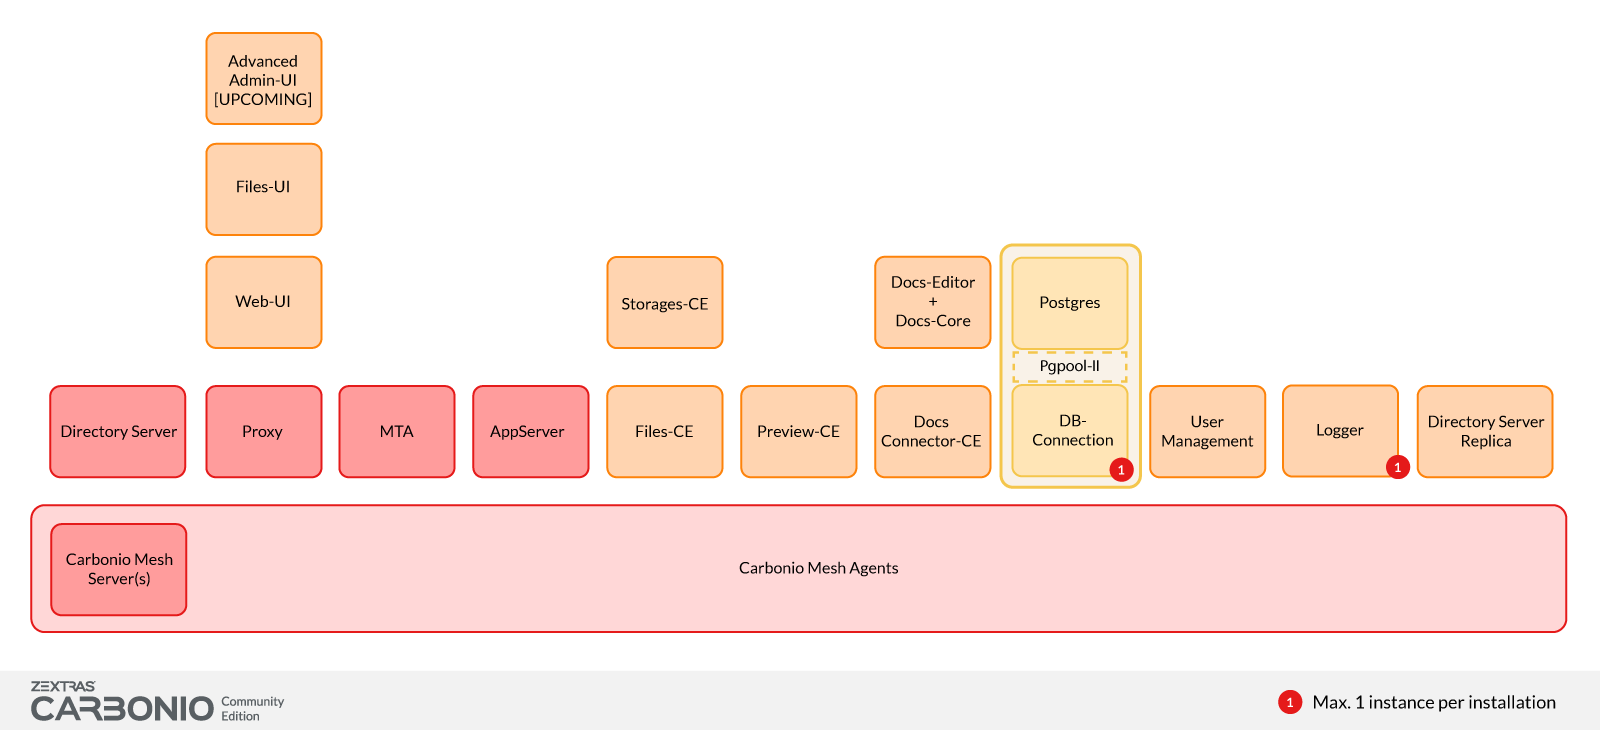
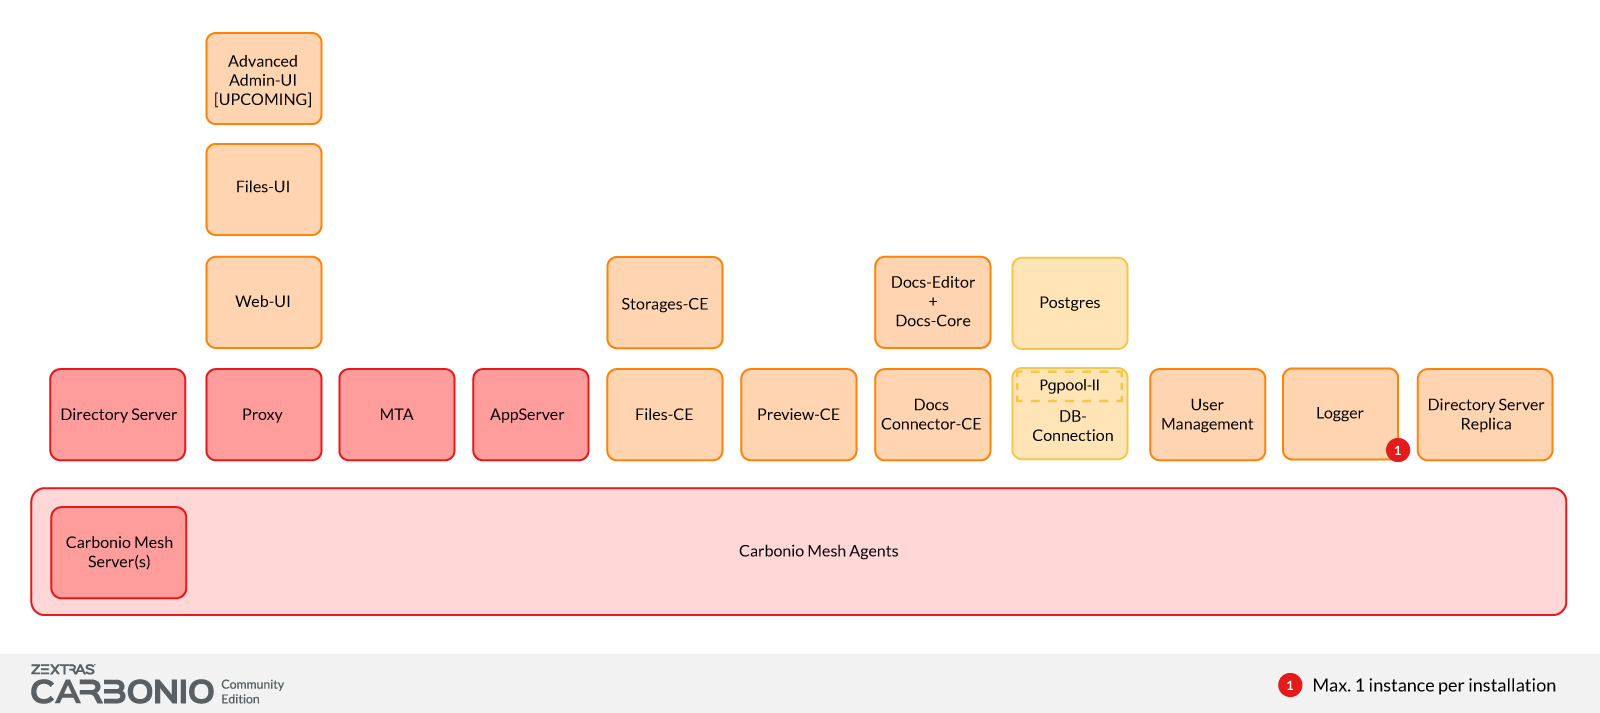
add updated diagrams and text

diff --git a/source/carbonio/architecture.rst b/source/carbonio/architecture.rst
@@ -9,7 +9,7 @@
 .. the intro and the architecture's legend must be fixed after we
    receive the final diagram!
 
-:numref:`fig-ce-arch` shows the internal architecture of |product|
+:numref:`fig-cb-arch` shows the internal architecture of |product|
 with all its components.
 
 .. card::
@@ -31,18 +31,11 @@ install it on a dedicated node, while **User Management** can be
 installed on the AppServer node instead of on a dedicated node.  In
 the :ref:`multiserver-installation` scenario we use as example, we
 show how to set up a cluster of *six* nodes and combine the various
-|product|'s roles.
+|product|'s roles.  A **Role** is a functionality that is considered
+atomic and can be added to the |product| by installing one or more
+software packages.
 
-Each of the boxes represents a **Role**, that is, a service that
-is considered atomic and can be added to the basic |product| by
-installing one or more software packages. 
-
-.. note:: In some cases, the Role requires that some packages be
-   installed on a different node: in these cases, the Role is split in
-   multiple sub-roles for clarity and to highlight package
-   dependencies.
-
-In :numref:`fig-ce-arch`, *dependencies* are denoted by the boxes piled
+In :numref:`fig-cb-arch`, *dependencies* are denoted by the boxes piled
 on top of the bottom one. In other words, all the ``*-UI`` packages,
 which contain the files necessary to show the Module to the users,
 **must be** installed on the Proxy Node.
@@ -90,7 +83,7 @@ receive e-mails and to manage their calendars and contacts. They are:
       :columns: 3
       :class-body: abyss
 
-	   The |mta| is the engine room of |product|. Its duties include
+      The |mta| is the engine room of |product|. Its duties include
       email transfer and forwarding, filtering, and other services to
       keep email clean and secure.
 
@@ -131,7 +124,7 @@ Optional Components
 
 With optional components we denote all those |carbonio| roles that add
 functionalities to the core components and are denoted by orange boxes
-in :numref:`fig-ce-arch`. In a Multi-Server installation they can be
+in :numref:`fig-cb-arch`. In a Multi-Server installation they can be
 installed on any node, provided the dependencies are respected.
 
 * **Chat**. Provides the chat and video call functionalities. It

diff --git a/source/carbonio-ce/architecture.rst b/source/carbonio-ce/architecture.rst
@@ -19,26 +19,19 @@ with all its components.
       Simplified architecture of |product|.
 
 While in Single-Server all packages are installed on the same node, in
-a typical Multi-Server each of the services depicted by the red
-boxes (i.e., the :ref:`core-comp`) should be installed on a dedicated
-node, while all the other (i.e., the :ref:`opt-comp` in the orange
-boxes) can be combined and installed on any node, even on dedicated
-one. For example, **User Management** can be
-installed on the AppServer node instead of on a dedicated node.  In
-the :ref:`multiserver-installation` scenario we use as example, we
-show how to set up a cluster of *six* nodes and combine the various
-|product|'s roles.
+a typical Multi-Server each of the services depicted by the red boxes
+(i.e., the :ref:`core-comp`) should be installed on a dedicated node,
+while all the other (i.e., the :ref:`opt-comp` in the orange boxes)
+can be combined and installed on any node, even on dedicated one. For
+example, **User Management** can be installed on the AppServer node
+instead of on a dedicated node.  In the
+:ref:`multiserver-installation` scenario we use as example, we show
+how to set up a cluster of *six* nodes and combine the various
+|product|'s roles. A **Role** is a functionality that is considered
+atomic and can be added to the |product| by installing one or more
+software packages.
 
-Each of the boxes represents a **Role**, that is, a service that
-is considered atomic and can be added to the basic |product| by
-installing one or more software packages. 
-
-.. note:: In some cases, the Role requires that some packages be
-   installed on a different node: in these cases, the Role is split in
-   multiple sub-roles for clarity and to highlight package
-   dependencies.
-
-In :numref:`fig-ce-arch`, *dependency* are denoted by the boxes piled
+In :numref:`fig-ce-arch`, *dependencies* are denoted by the boxes piled
 on top of the bottom one. In other words, all the ``*-UI`` packages,
 which contain the files necessary to show the Module to the users,
 **must be** installed on the Proxy Node.
